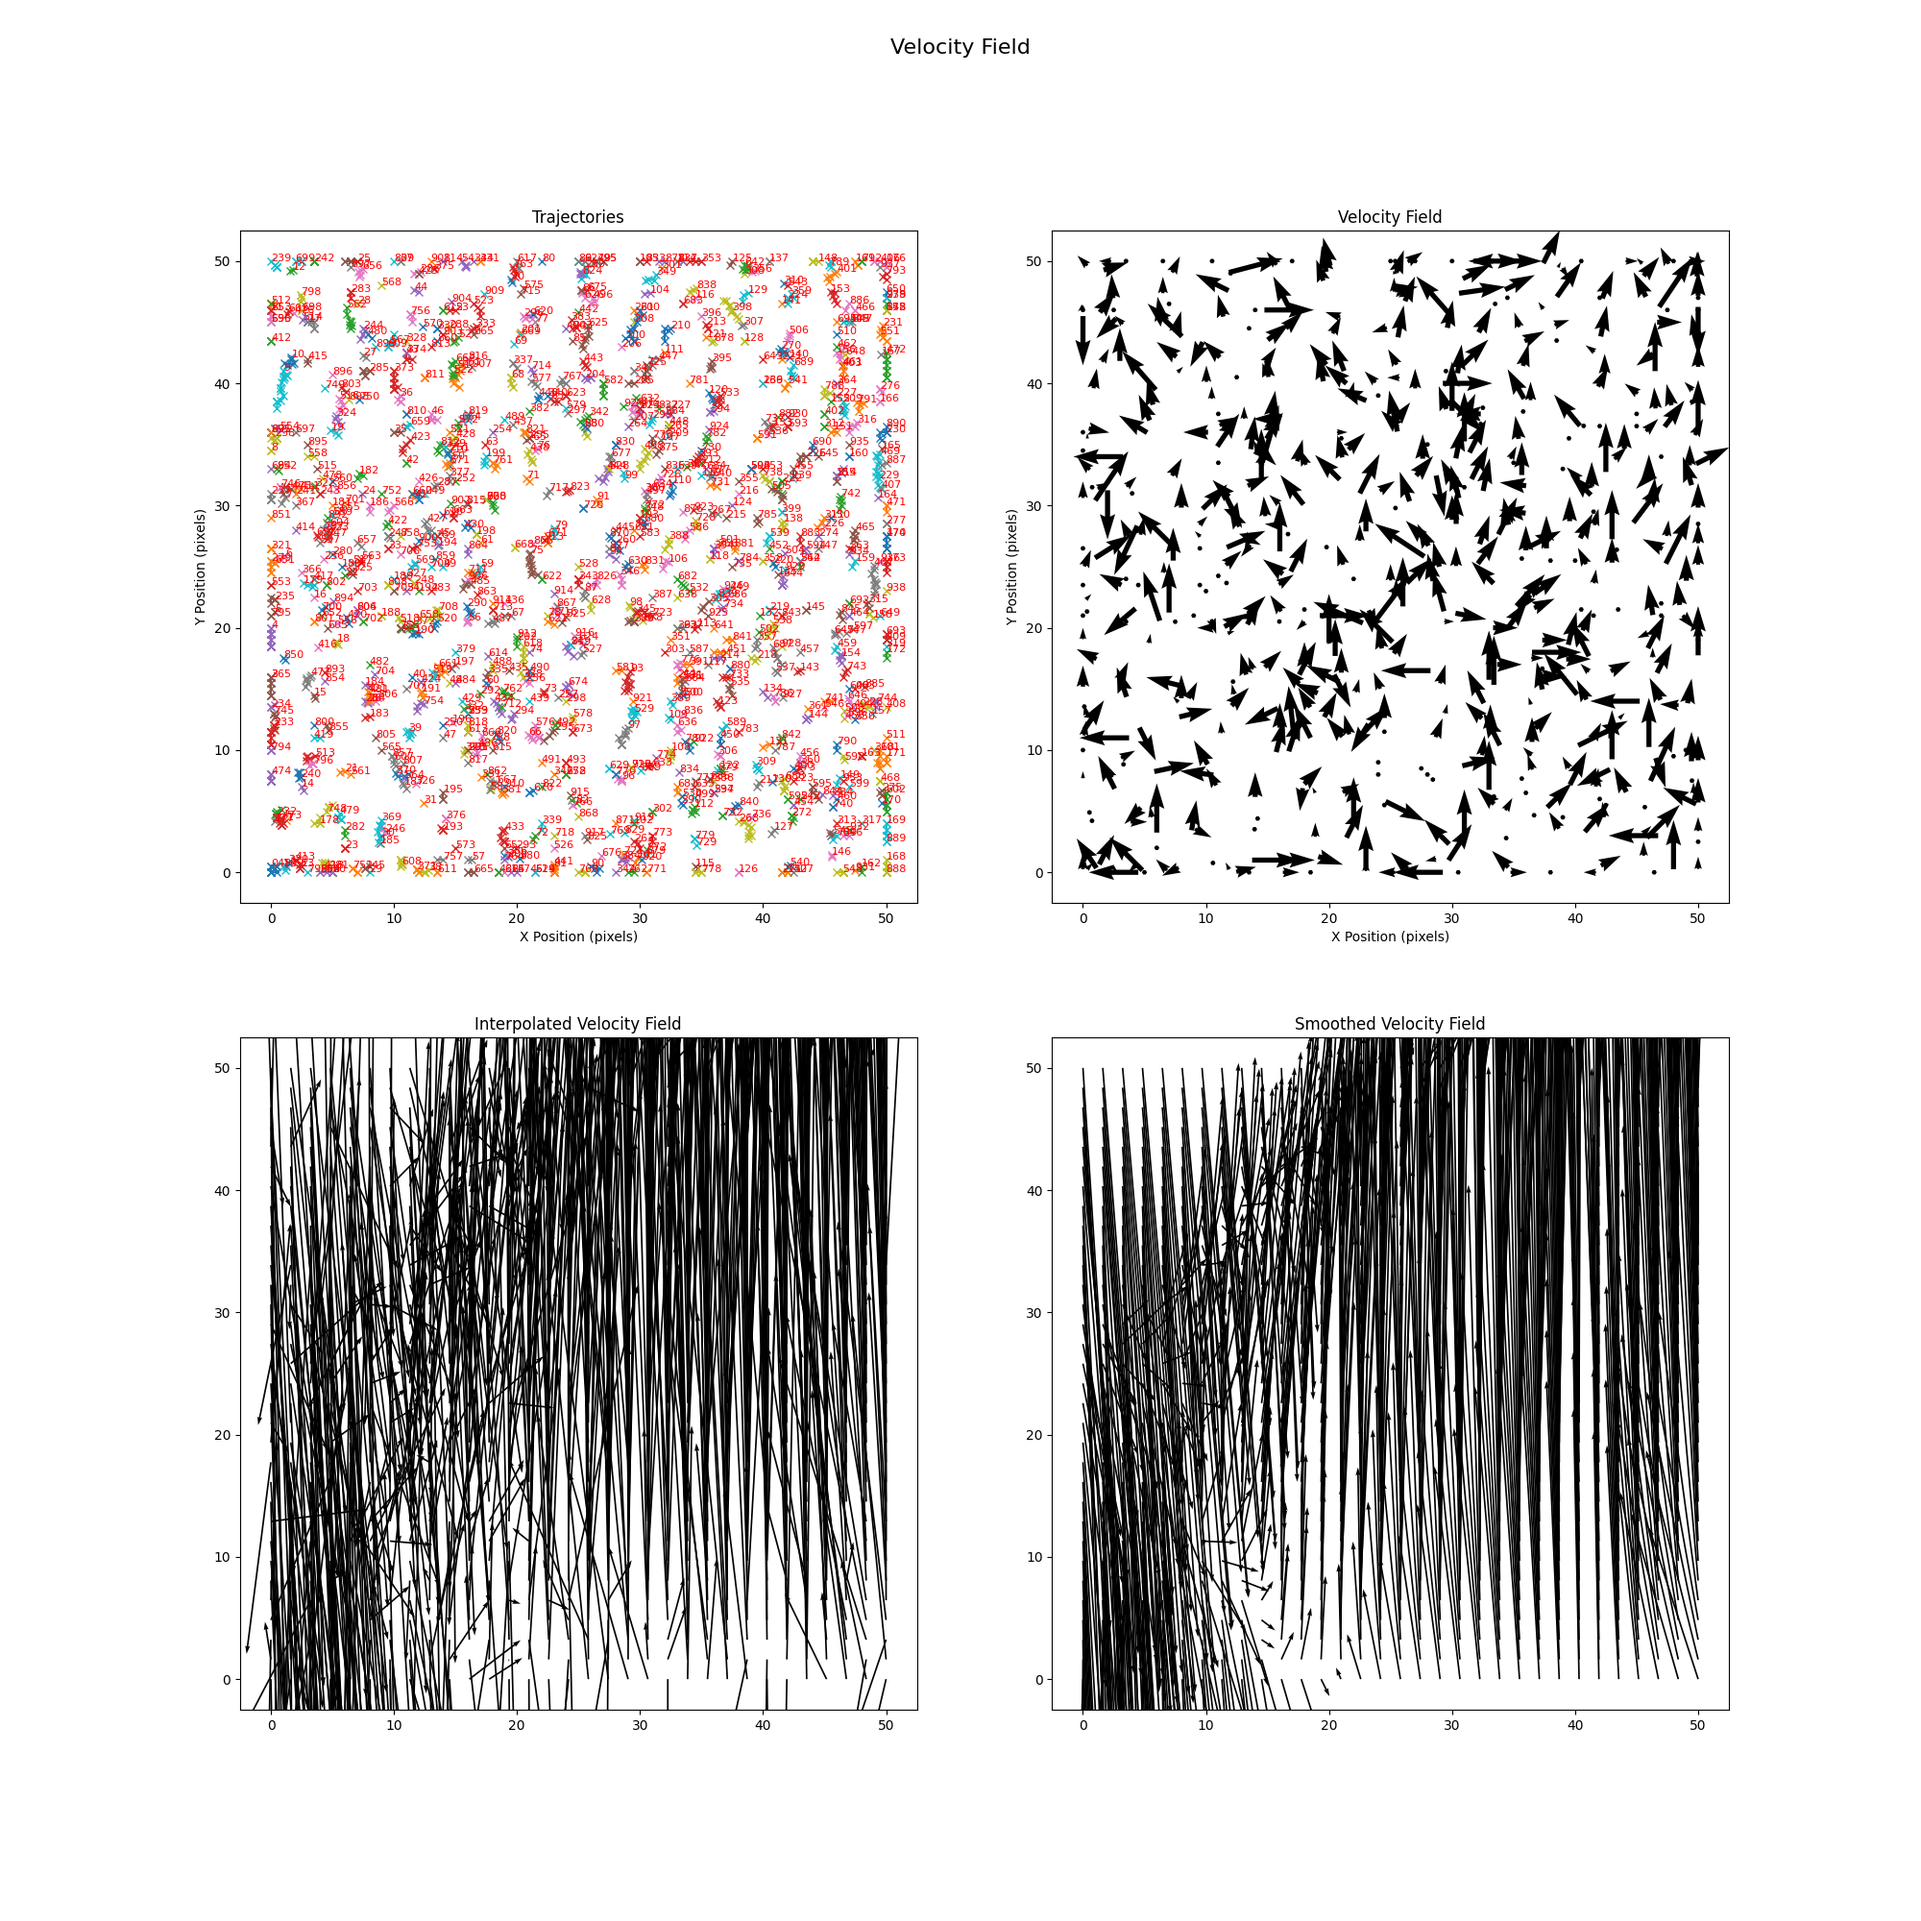
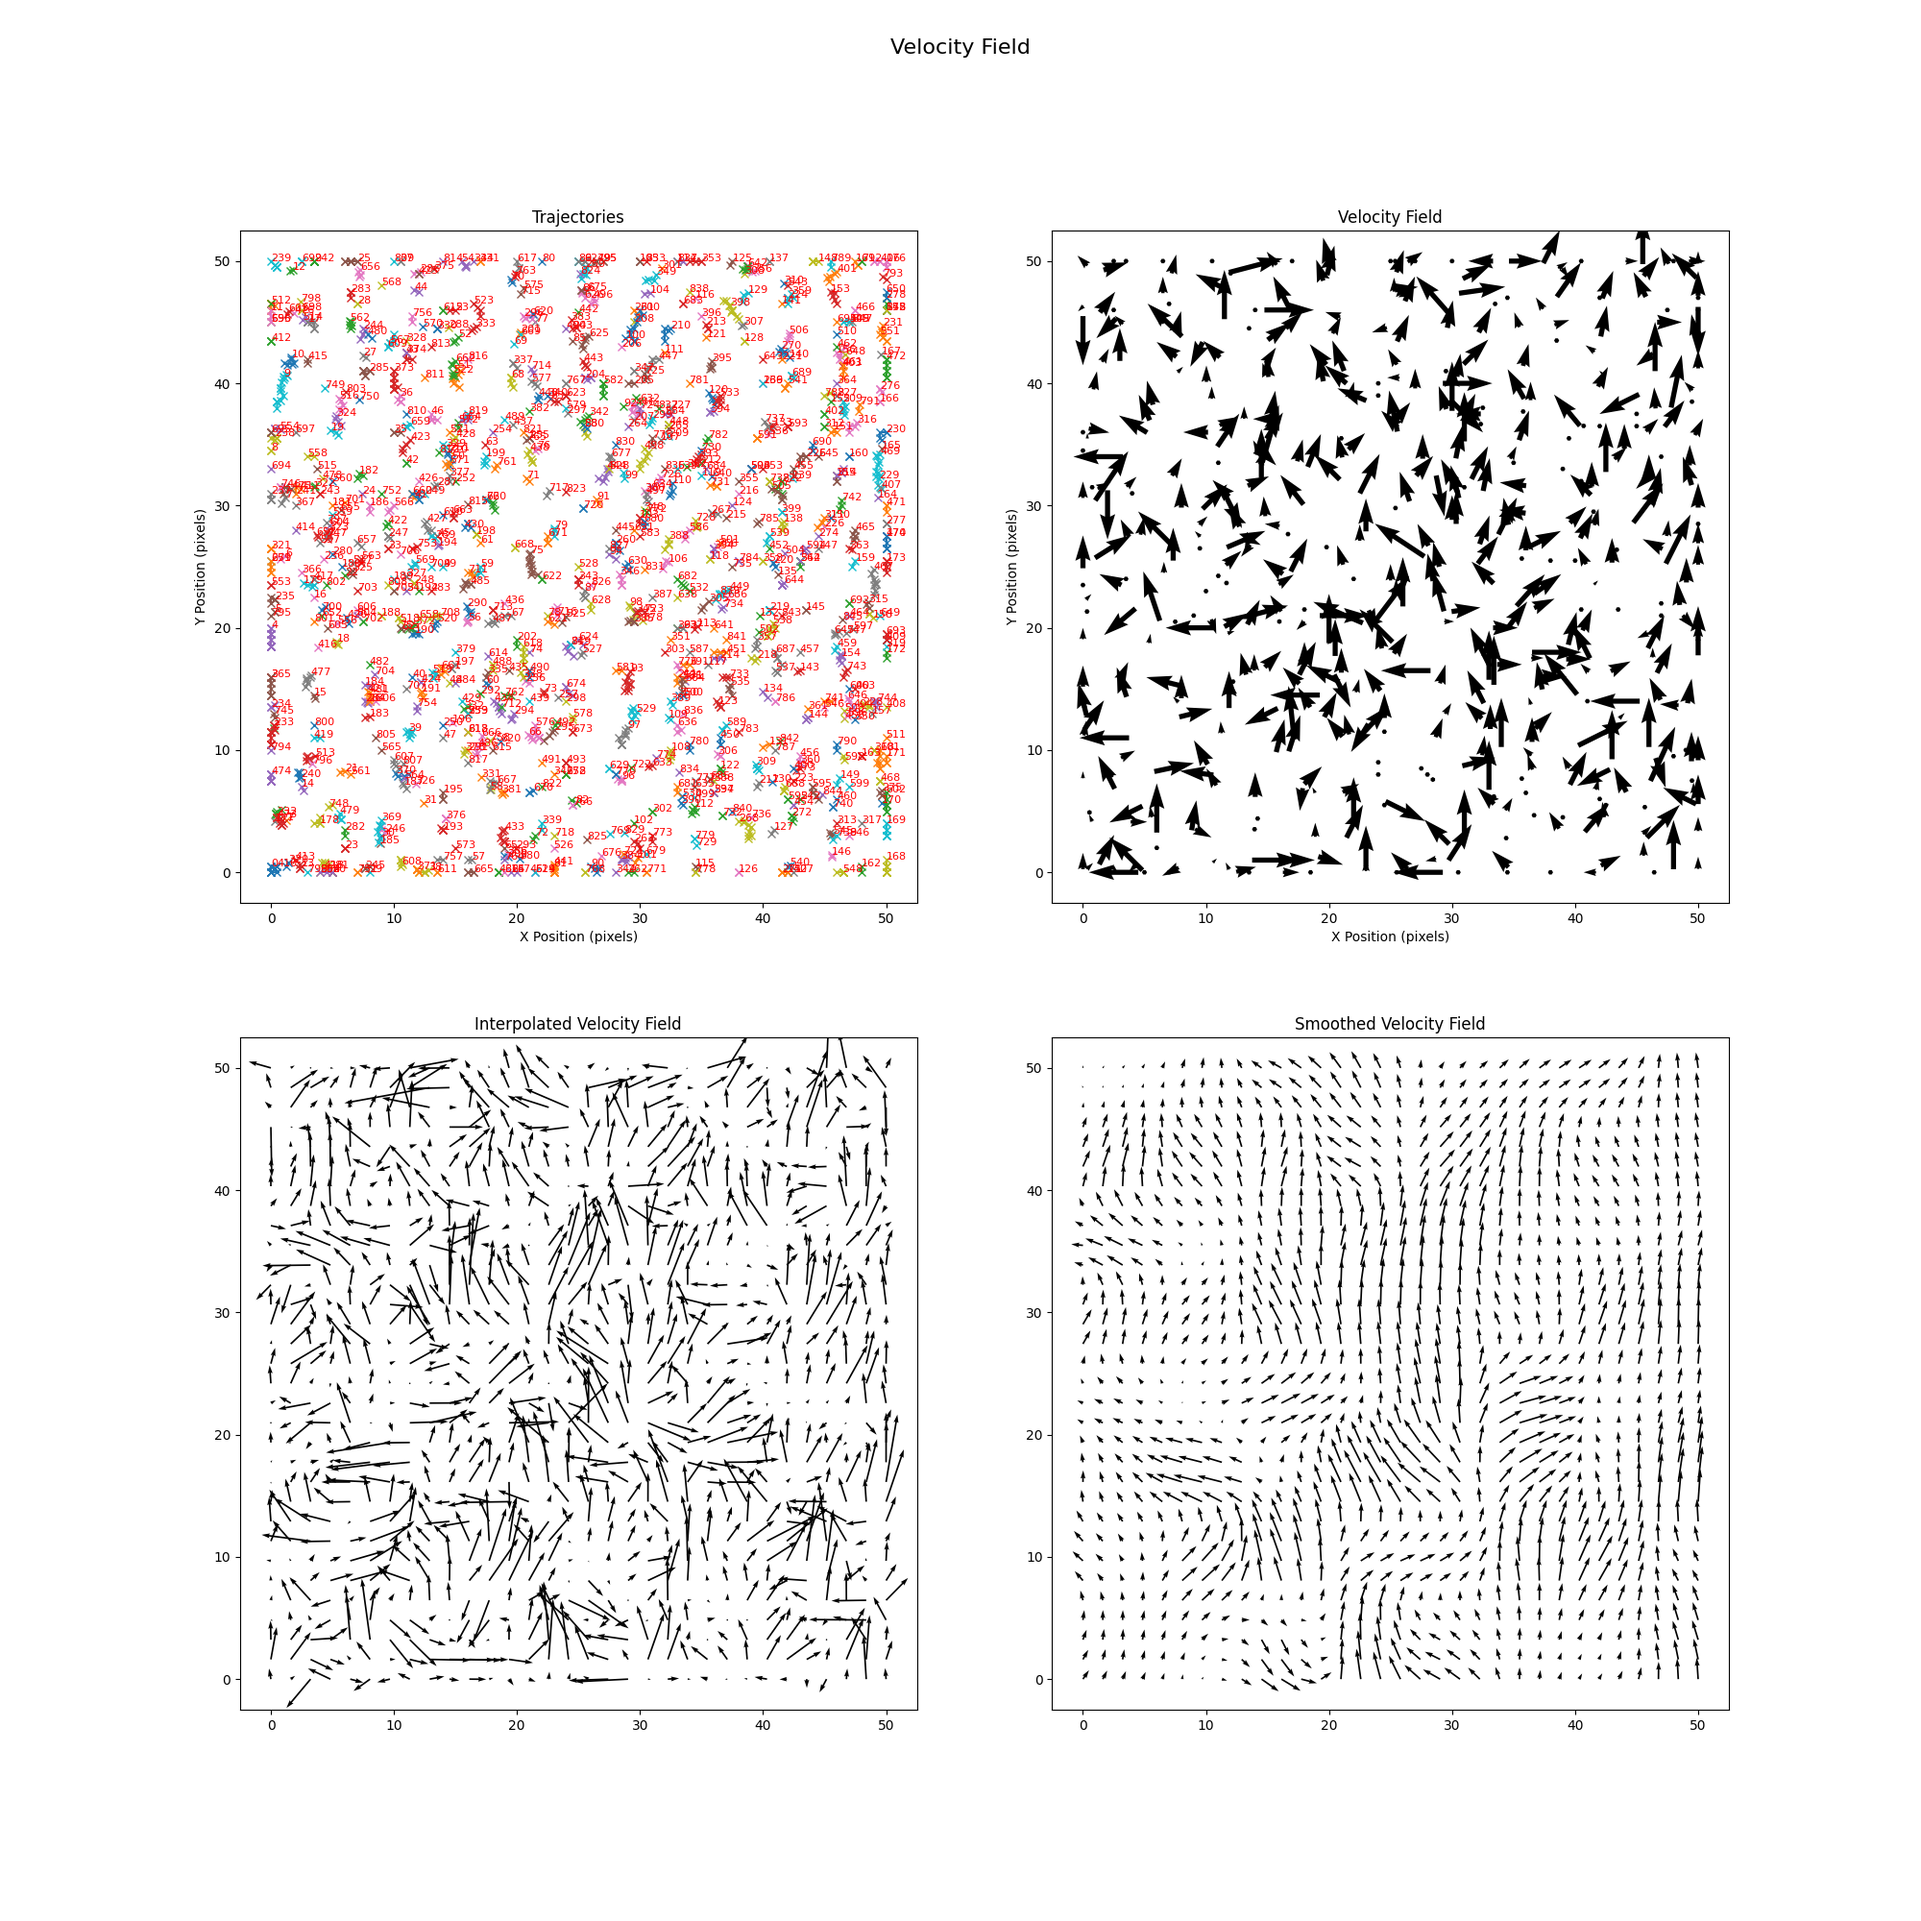
Some abstraction

diff --git a/src/__main__.py b/src/__main__.py
@@ -1,5 +1,5 @@
 import os
-from src.utils import getimagemask, label_objects, matching, trajectories
+from src.utils import getimagemask, label_objects, matching, trajectories, velocityField, wavelet_mra_smooth
 import sunpy.map as sm
 import numpy as np
 from astropy.coordinates import SkyCoord
@@ -9,22 +9,6 @@ from scipy.ndimage import center_of_mass
 from scipy.spatial import KDTree
 from scipy.interpolate import RBFInterpolator
 import pywt
-
-def wavelet_mra_smooth(grid, wavelet='db4', levels=4):
-    """ Apply wavelet MRA smoothing to a 2D grid of velocities. """
-    # Decompose the grid into wavelet coefficients
-    coeffs = pywt.wavedec2(grid, wavelet, level=levels)
-
-    # Keep only the approximation coefficients at the coarsest scale
-    coeffs_smooth = [coeffs[0]]
-    for i in range(1, len(coeffs)):
-        coeffs_smooth.append((
-            (np.zeros_like(coeffs[i][0])),
-            (np.zeros_like(coeffs[i][1])),
-            (np.zeros_like(coeffs[i][2]))
-        ))
-
-    return pywt.waverec2(coeffs_smooth, wavelet)
 
 
 # Define the file folder where the FITS files are stored
@@ -42,48 +26,15 @@ roi_center = [0, 0] # Bottom-left corner of the region of interest (arcsecond co
 
 
 # Number of consective frames to process
-num_frames = 17 #len(os.listdir(file_folder))  # Get the number of frames in the folder
+num_frames = 15 #len(os.listdir(file_folder))  # Get the number of frames in the folder
 
 trajectories_list = trajectories(num_frames, file_folder, flow_velocity_threshold, roi_size, roi_center)
 
-velocity_field = []
-for traj in trajectories_list:
-    positions = np.array(traj["positions"])
-    frames = np.array(traj["frames"])
+velocity_field = velocityField(trajectories_list, dt)
 
 
-    if len(frames) > 1:
-        # Calculate the mean velocity associated with each trajectory
-        # V_k = (X_n2 - X_n1) / (t_n2 - t_n1)
-        displacement = positions[-1] - positions[0] # Calculate displacement in pixels as the difference between the final and first positions
-        delta_X = displacement * (725/2) * u.km  # Convert to km
 
-        # Calculate number of frames and convert to seconds
-        active_frames = len(frames) - 1
-        delta_t = active_frames * dt * u.s  # Converting to seconds
-
-        if delta_t > 0:
-            V = delta_X / delta_t #displacement * u.pix #/ delta_t.value * u.pix/u.s #/ delta_t #! madness
-        else:
-            V = np.array([0, 0]) * u.pix #u.km / u.s  # Assign zero velocity if no time difference
-
-        # Calculate the mean position of each trajectory
-        # X_k = 1/(n1 - n2 + 1) * sum(X_n1, X_n2, ..., X_nk)
-        mean_position = np.mean(positions, axis=0)  # Mean position of the trajectory
-
-        # Combine the mean velocity and mean position of each trajectory
-        # into set {V_k, X_k} for each trajectory k
-        velocity_field.append({
-            "velocity": V,
-            "mean_position": mean_position,
-            "trajectory_id": traj["id"]
-        })
-    
-    else:
-        continue
-
-
-## Wavelet MRA smoothing of the velocity field ##
+##### Wavelet MRA smoothing of the velocity field #####
 
 # Extract positions and velocities from the velocity field
 positions = np.array([v["mean_position"] for v in velocity_field])
@@ -113,6 +64,7 @@ smoothed_vy = wavelet_mra_smooth(grid_vy, wavelet='db4', levels=2)
 
 
 ########### Plotting the results ###########
+print("\nCalculations complete! Plotting results:")
 
 # Plot the trajectories and velocity field side by side
 fig, axs = plt.subplots(2, 2, figsize=(20, 20))  # Create two subplots side by side
@@ -151,7 +103,6 @@ axs[1,1].quiver(grid_x, grid_y, smoothed_vx, smoothed_vy, scale=1, scale_units='
 axs[1,1].set_title("Smoothed Velocity Field")
 
 
-
 # Add a shared title for the figure
 fig.suptitle("Velocity Field", fontsize=16)
 
@@ -159,7 +110,7 @@ fig.suptitle("Velocity Field", fontsize=16)
 os.makedirs('plots', exist_ok=True)
 output_path = os.path.join('plots', 'MRA_velocity_field.png')
 plt.savefig(output_path)
-print(f"Plot saved to {output_path}")
+print(f"Velocity field plots saved to {output_path}")
 
 
 
@@ -187,3 +138,5 @@ os.makedirs('plots', exist_ok=True)
 output_path = os.path.join('plots', 'granule_lifetimes.png')
 plt.savefig(output_path)
 print(f"Granule lifetimes plot saved to {output_path}")
+
+print("\n")

diff --git a/src/utils.py b/src/utils.py
@@ -5,6 +5,7 @@ import astropy.units as u
 from astropy.coordinates import SkyCoord
 from scipy.ndimage import label, center_of_mass
 from scipy.spatial import KDTree
+import pywt
 
 
 def calc_second_derivative(image, i, j):
@@ -125,6 +126,8 @@ def matching(centroids_OLD, centroids_NEW, flow_velocity_threshold):
 
 def trajectories(num_frames, file_folder, flow_velocity_threshold, roi_size, roi_center):
     """ Calculate the trajectories of centroids in a series of images. """
+    
+    print("\nConstructing trajectories...")
 
     # Initialise trajectories
     trajectories_list = []          # List to store trajectories
@@ -136,6 +139,7 @@ def trajectories(num_frames, file_folder, flow_velocity_threshold, roi_size, roi
 
     # Process each frame and calulate the centroids
     for frame_index in range(num_frames):
+        print(f"Processing frame {frame_index+1} of {num_frames}...")
         cropped_map, binary_mask = getimagemask(frame_index, file_folder, roi_size, roi_center)        # Store the FITS image in the file as a cropped sunpy map & create a binary mask
         labelled_mask, num_features = label_objects(binary_mask)    # Label the objects in the binary mask
         centroids = np.array(center_of_mass(labelled_mask, labels=labelled_mask, index=np.unique(labelled_mask)[1:])) # Calculate the centroids of the labelled objects and turn them into a NumPy array
@@ -209,3 +213,67 @@ def trajectories(num_frames, file_folder, flow_velocity_threshold, roi_size, roi
                     completed_trajectories.add(trajectory["id"])  # Mark the trajectory as completed
 
     return trajectories_list
+
+
+def velocityField(trajectories_list, dt):
+    """ Calculate the velocity field from the trajectories. """
+
+    print("\nDetermining velocity fields...")
+    
+    # Define the velocity field as a list of dictionaries
+    velocity_field = []
+    
+    
+    for traj in trajectories_list:  
+        positions = np.array(traj["positions"]) # Convert the list of positions to a NumPy array
+        frames = np.array(traj["frames"])       # Convert the list of frames to a NumPy array
+
+
+        if len(frames) > 1:
+            # Calculate the mean velocity associated with each trajectory
+            # V_k = (X_n2 - X_n1) / (t_n2 - t_n1)
+            displacement = positions[-1] - positions[0] # Calculate displacement in pixels as the difference between the final and first positions
+            delta_X = displacement * (725/2) * u.km  # Convert to km
+
+            # Calculate number of frames and convert to seconds
+            active_frames = len(frames) - 1
+            delta_t = active_frames * dt * u.s  # Converting to seconds
+
+            if delta_t > 0:
+                V = delta_X / delta_t #! ADJUST UNITS HERE (???)
+            else:
+                V = np.array([0, 0]) * u.pix #u.km / u.s  # Assign zero velocity if no time difference
+
+            # Calculate the mean position of each trajectory
+            # X_k = 1/(n1 - n2 + 1) * sum(X_n1, X_n2, ..., X_nk)
+            mean_position = np.mean(positions, axis=0)  # Mean position of the trajectory
+
+            # Combine the mean velocity and mean position of each trajectory
+            # into set {V_k, X_k} for each trajectory k
+            velocity_field.append({
+                "velocity": V,
+                "mean_position": mean_position,
+                "trajectory_id": traj["id"]
+            })
+        
+        else:
+            continue
+
+    return velocity_field
+
+
+def wavelet_mra_smooth(grid, wavelet='db4', levels=4):
+    """ Apply wavelet MRA smoothing to a 2D grid of velocities. """
+    # Decompose the grid into wavelet coefficients
+    coeffs = pywt.wavedec2(grid, wavelet, level=levels)
+
+    # Keep only the approximation coefficients at the coarsest scale
+    coeffs_smooth = [coeffs[0]]
+    for i in range(1, len(coeffs)):
+        coeffs_smooth.append((
+            (np.zeros_like(coeffs[i][0])),
+            (np.zeros_like(coeffs[i][1])),
+            (np.zeros_like(coeffs[i][2]))
+        ))
+
+    return pywt.waverec2(coeffs_smooth, wavelet)
